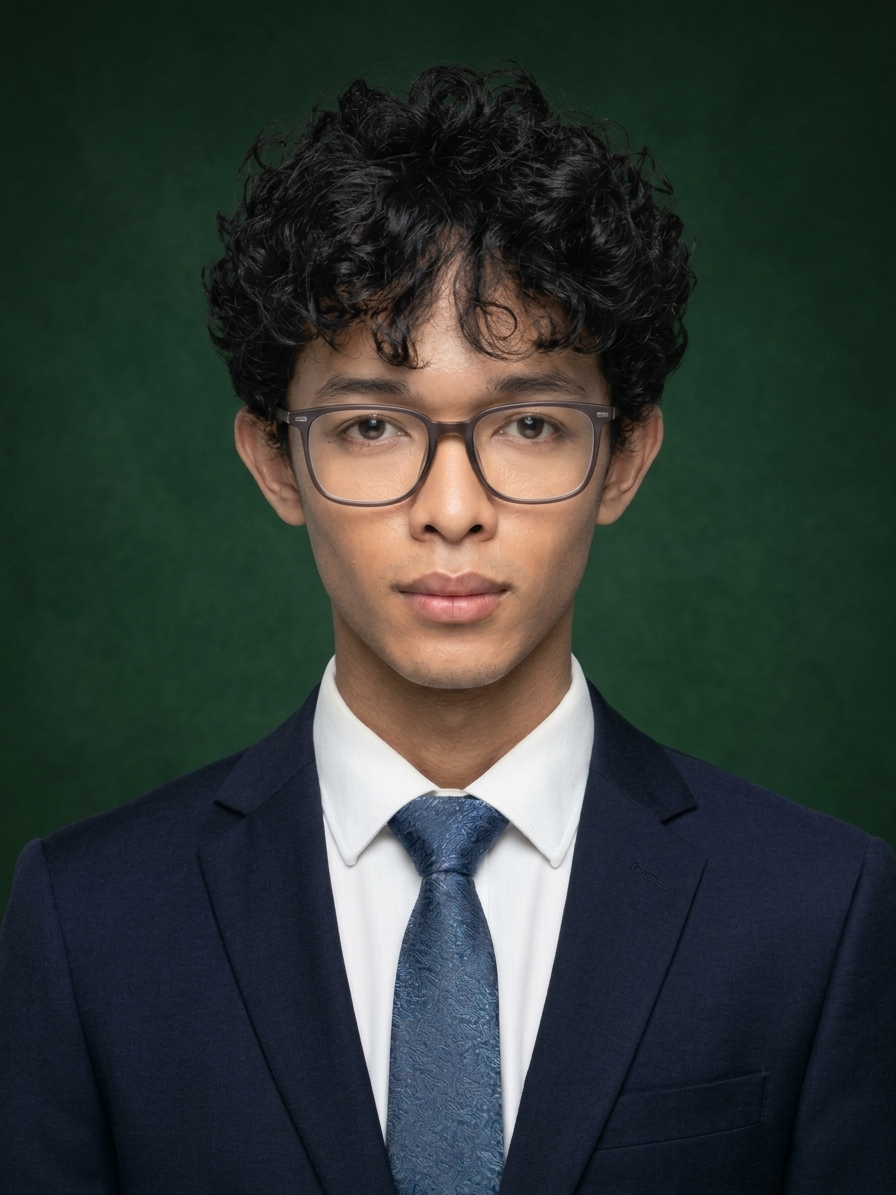
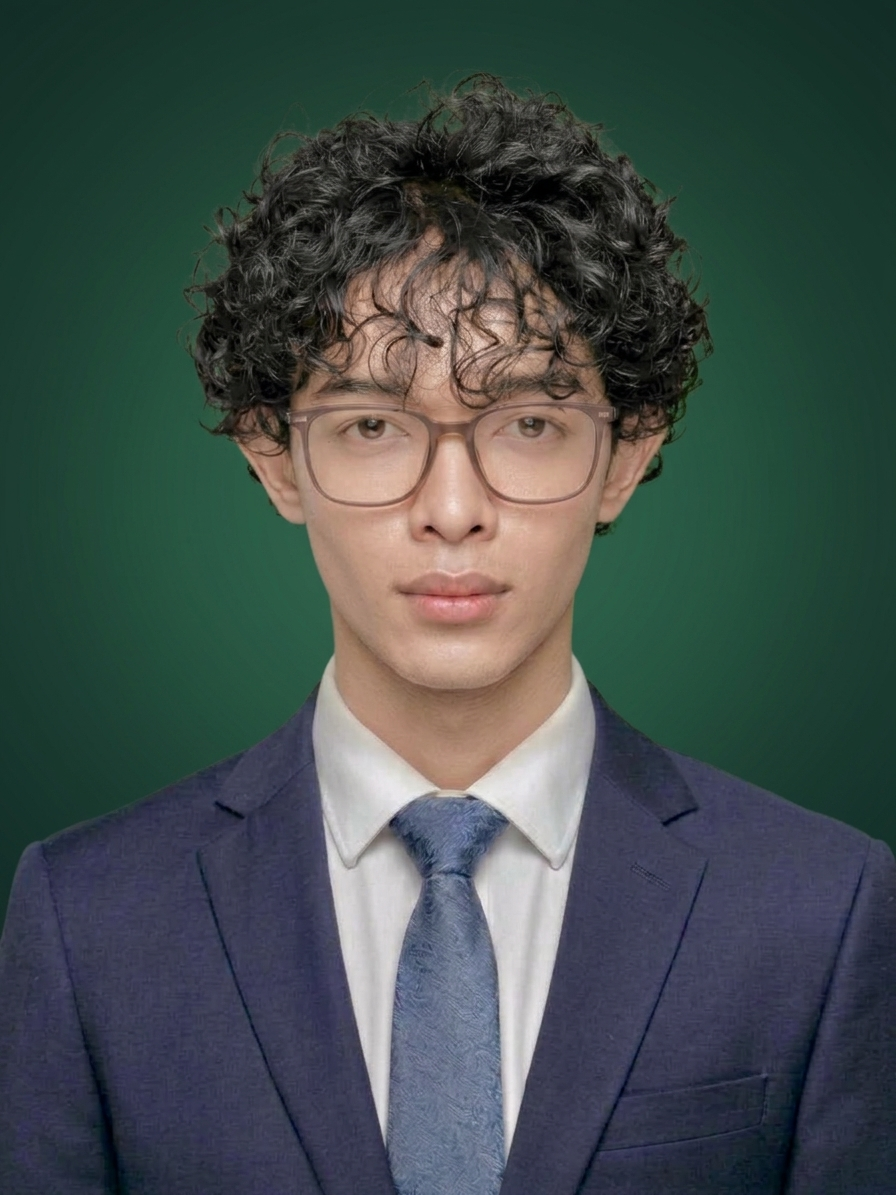
kk

diff --git a/index.html b/index.html
@@ -110,7 +110,7 @@
 
                 <!-- FRONT: the photograph only -->
                 <section class="card-face card-face--front" id="card-front" aria-label="Card front: photo of Nay Naing">
-                  <img class="card__photo" src="photo.jpg" width="896" height="1195"
+                  <img class="card__photo" src="photo.jpg?v=2" width="896" height="1195"
                        alt="Portrait of Nay Naing: curly black hair, glasses, navy suit and blue tie">
                 </section>
 
@@ -122,7 +122,7 @@
                   </header>
 
                   <article class="id__body">
-                    <img class="id__photo" src="photo.jpg" width="96" height="120" alt="">
+                    <img class="id__photo" src="photo.jpg?v=2" width="96" height="120" alt="">
                     <dl class="id__details">
                       <dt>Name</dt><dd>Nay Naing</dd>
                       <dt>Age</dt><dd>20</dd>
